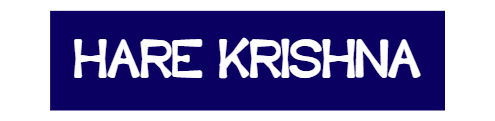
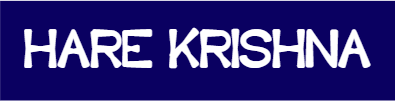
Adding png

diff --git a/index.html b/index.html
@@ -50,17 +50,17 @@
                </div>
                <div class="box2" style="background-image: url('./Images/White Image.png');">     
                </div> -->
-                <div><img class="" id="blue" src=".\Images\Blue Image.png" alt="" data-aos="slide-down" data-aos-duration="2000"></div>
+                <div class="box1"><img  id="blue" src=".\Images\Blue Image.png" alt="" width="350" height="80" data-aos="slide-down" data-aos-duration="2000"></div>
         
-                <div><img class="" id="white" src=".\Images\White Image.png" alt="" data-aos="slide-up" data-aos-duration="2000"></div>
+                <div class="box2" ><img id="white" src=".\Images\White Image.png" alt=""width="400" height="78"  data-aos="slide-up" data-aos-duration="2000"></div>
               
             </div>
         </div>
         <div class="para1" >
             <div class=" row">
                 <div class="col-sm-5" id="para">
-                    <h1>Connected With Over 10000+ Fleet Owners</h1>
-                    <p>HK Transport is attached & working with owners.</p>
+                    <h1>Connected With Over<br> 7000+ Fleet Owners<br>All Over India</h1>
+                    
                 </div>
                 <div class="truck col">
                 <img src=".\Images\Tata Truck.jpg" alt="Transport">

diff --git a/CSS/style.css b/CSS/style.css
@@ -47,12 +47,20 @@
     line-height: 0;
     vertical-align: middle;
   display: block;
+  
     
 }
 .content div{
     display: block;
-}
 
+}
+.box1{
+    padding-left: 10%;
+    padding-top: 4%;
+}
+.box2{
+    padding-left: 15%;
+}
 #blue{
     
     vertical-align: top 
@@ -66,11 +74,12 @@
 .para1{
    
    background-color: floralwhite;
-    background: linear-gradient(180deg, floralwhite 91%, #ff0000 85%, #ff0000 94%, rgb(17, 0, 170) 94%);
+    background: linear-gradient(180deg, floralwhite 91%, #110072 85%, #110072 94%, rgb(180, 180, 180) 94%);
 }
 .truck{
     padding-top: 12%;
     padding-left: 12%;
+    padding-right: 0%;
     
 }
 .truck img{
@@ -80,7 +89,7 @@
 }
 #para{
     padding-top: 8%;
-    padding-left: 10%;
+    padding-left: 9%;
     font-family: "Montserrat";
 }
 
